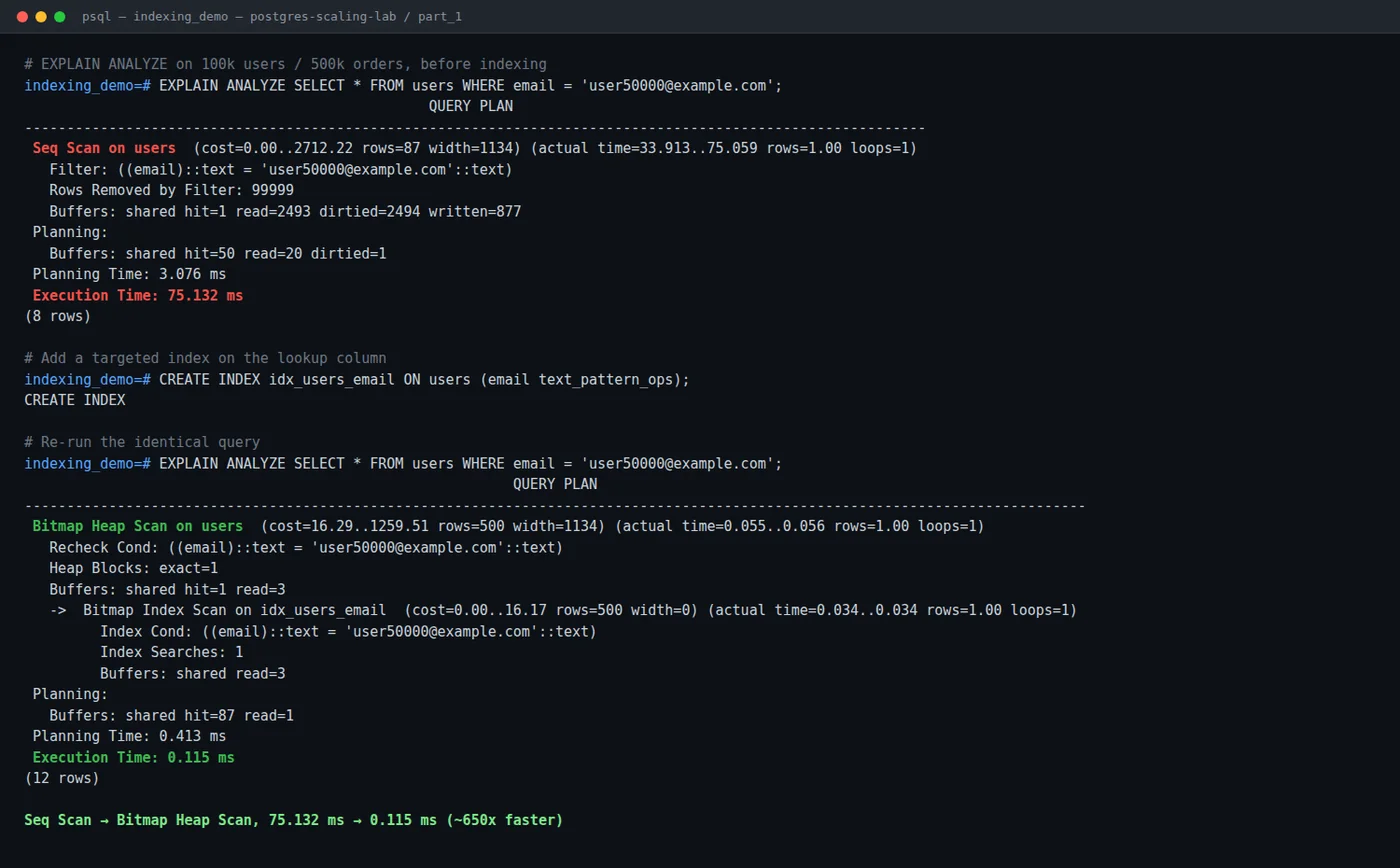
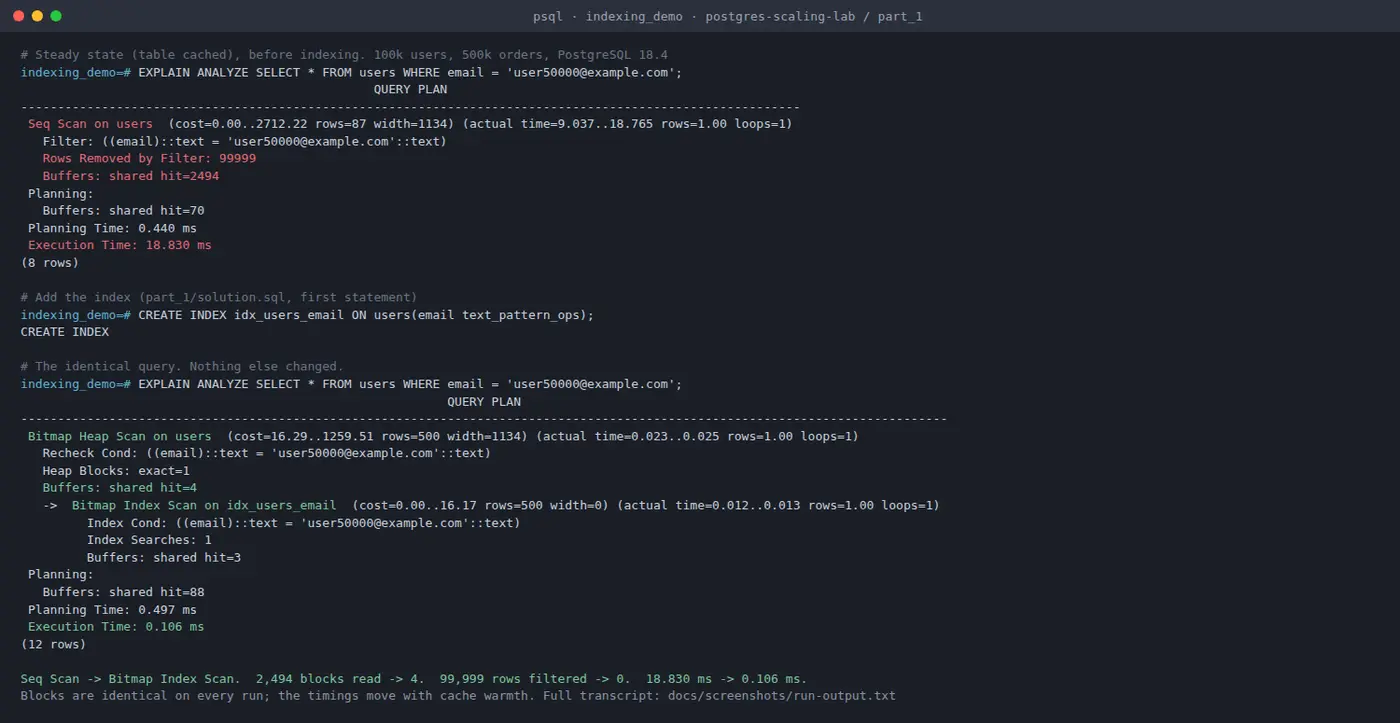
fix: the Balochi card image no longer chops its own charts, and the indexing figure now has provenance [deploy]
The Balochi card image was a 2.84:1 strip in a 16:9 box, so object-fit cut both
panels mid-word: "ribution of Verses per Poet" and "Number of Charact". The
project's own preprocessing.py drew it that way, so the figure was regenerated
from the real Data.csv at 16:9 rather than cropped by hand. Both chart titles,
all three poet names, the 860/670/140 counts and both axis labels now read in
full at card size. The image's height attribute was reserving the old shape.

The indexing screenshot quoted numbers that existed only as pixels, with no saved
terminal output behind them, and the caption's 75.1ms to 0.115ms came from that
image alone. The lookup was re-run on a scratch local PostgreSQL 18.4 cluster with
the repo's own schema and index, the full stdout is now saved in the repo beside
the image, and the caption leads with what is actually stable: the sequential scan
reads all 2,494 blocks of the table and discards 99,999 of 100,000 rows, the index
reads 4. Warm, that is 18.8ms to 0.106ms. The timings move with cache warmth, the
block counts do not, so the blocks are the honest headline. The 35ms to 0.5ms
figure elsewhere on the page is the same query on the original course Docker
setup, and the page now says so instead of quietly mixing the two.

Changed region(s): [[0.0, 0.0, 1.0, 0.9737]]

diff --git a/projects/postgres-scaling-lab.html b/projects/postgres-scaling-lab.html
@@ -98,8 +98,8 @@
       </figure>
 
       <figure class="proj-media">
-        <img src="../assets/screenshots/postgres-scaling-lab.webp" alt="Real terminal output of EXPLAIN ANALYZE before and after adding an index, on a live local Postgres cluster." loading="lazy" decoding="async" width="1400" height="868">
-        <figcaption>A scratch local Postgres cluster running this repo's own schema (100k users, 500k orders) and its <code>idx_users_email</code> index: the email lookup goes from a 75.1 ms sequential scan to a 0.115 ms index scan. The 35 ms to 0.5 ms figure quoted below is the same query measured on the original course Docker setup; different machine, same fix.</figcaption>
+        <img src="../assets/screenshots/postgres-scaling-lab.webp" alt="Real terminal output of EXPLAIN ANALYZE before and after adding an index, on a live local Postgres cluster: a sequential scan reading 2,494 blocks becomes a bitmap index scan reading 4." loading="lazy" decoding="async" width="1400" height="723">
+        <figcaption>A scratch local PostgreSQL 18.4 cluster running this repo's own schema (100k users, 500k orders) and its <code>idx_users_email</code> index. The email lookup stops reading all 2,494 blocks of the table and reads 4: a sequential scan that threw away 99,999 of 100,000 rows becomes a bitmap index scan. Warm, that is 18.8 ms to 0.106 ms. The block counts are identical on every run; the timings are not, so the blocks are the honest headline. Full stdout, including the repeat runs, is saved beside the image in <code>docs/screenshots/run-output.txt</code>. The 35 ms to 0.5 ms figure quoted below is the same query on the original course Docker setup; different machine, same fix.</figcaption>
       </figure>
 
       <div class="proj-stats">

diff --git a/projects/balochi-poet-classifier.html b/projects/balochi-poet-classifier.html
@@ -98,7 +98,7 @@
       </figure>
 
       <figure class="proj-media">
-        <img src="../assets/screenshots/balochi-poet-classifier.webp" alt="Bar chart of verses per poet and a histogram of verse length, from the real 1,670-verse Balochi corpus." loading="lazy" decoding="async" width="1600" height="563">
+        <img src="../assets/screenshots/balochi-poet-classifier.webp" alt="Bar chart of verses per poet and a histogram of verse length, from the real 1,670-verse Balochi corpus." loading="lazy" decoding="async" width="1600" height="900">
         <figcaption>Dataset statistics from the actual labelled corpus.</figcaption>
       </figure>
 